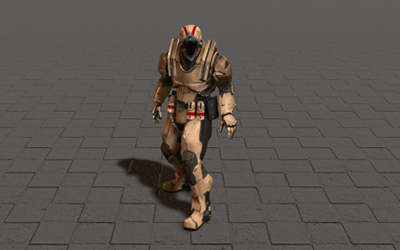
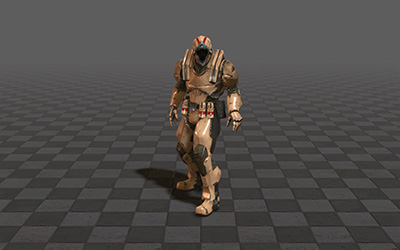
up

diff --git a/examples/webgl_animation_walk.html b/examples/webgl_animation_walk.html
@@ -65,10 +65,10 @@
 				up : new THREE.Vector3(0, 1, 0),
 				rotate: new THREE.Quaternion(),
 				current:'Idle',
-				fadeDuration:0.2,
+				fadeDuration:0.5,
 				runVelocity:5,
-				walkVelocity:2,
-				rotateSpeed:0.1,
+				walkVelocity:1.8,
+				rotateSpeed:0.05,
 				floorDecale:0,
 
 			};
@@ -90,7 +90,7 @@
 
 				scene = new THREE.Scene();
 				scene.background = new THREE.Color( 0x5e5d5d );
-				scene.fog = new THREE.Fog( 0x5e5d5d, 2, 30 );
+				scene.fog = new THREE.Fog( 0x5e5d5d, 2, 20 );
 
 				group = new THREE.Group();
 				scene.add(group);
@@ -158,16 +158,20 @@
 				let size = 50;
 				let repeat = 25;
 
+				const maxAnisotropy = renderer.capabilities.getMaxAnisotropy();
+
 				const floorT = new THREE.TextureLoader().load( 'textures/floors/FloorsCheckerboard_S_Diffuse.jpg' );
 				floorT.colorSpace = THREE.SRGBColorSpace;
 				floorT.repeat.set( repeat, repeat );
 				floorT.wrapS = floorT.wrapT = THREE.RepeatWrapping;
+				floorT.anisotropy = maxAnisotropy;
 
 				const floorN = new THREE.TextureLoader().load( 'textures/floors/FloorsCheckerboard_S_Normal.jpg' );
 				floorN.repeat.set( repeat, repeat );
 				floorN.wrapS = floorN.wrapT = THREE.RepeatWrapping;
+				floorN.anisotropy = maxAnisotropy;
 
-				let mat = new THREE.MeshStandardMaterial( { map:floorT, normalMap:floorN, normalScale:new THREE.Vector2(-2,-2), color: 0x404040, depthWrite: false, roughness:1.0 } )
+				let mat = new THREE.MeshStandardMaterial( { map:floorT, normalMap:floorN, normalScale:new THREE.Vector2(-1,-1), color: 0x404040, depthWrite: false, roughness:0.85 } )
 
 				let g = new THREE.PlaneGeometry( size, size, 50, 50 );
 				g.rotateX( -PI90 );
@@ -176,7 +180,17 @@
 				floor.receiveShadow = true;
 				scene.add( floor );
 
-				controls.floorDecale = (size / repeat);
+				controls.floorDecale = (size / repeat) * 4;
+
+
+				const bulbGeometry = new THREE.SphereGeometry( 0.05, 16, 8 );
+				let bulbLight = new THREE.PointLight( 0xffee88, 1, 100, 2 );
+
+				let bulbMat = new THREE.MeshStandardMaterial( { emissive: 0xffffee, emissiveIntensity: 1, color: 0x000000 } );
+				bulbLight.add( new THREE.Mesh( bulbGeometry, bulbMat ) );
+				bulbLight.position.set( 1, 1, -3 );
+				bulbLight.castShadow = true;
+				floor.add( bulbLight );
 
 			}
 
@@ -197,14 +211,12 @@
 						    if( object.name == 'vanguard_Mesh' ){
 						    	object.castShadow = true;
 								object.receiveShadow = true;
-								//object.material = new THREE.MeshStandardMaterial()
 								object.material.shadowSide = THREE.DoubleSide;
-								object.material.envMapIntensity = 0.5;
+								//object.material.envMapIntensity = 0.5;
 								object.material.metalness = 1.0;
 								object.material.roughness = 0.2;
 								object.material.color.set(1,1,1);
 								object.material.metalnessMap = object.material.map;
-								//object.material.envMap = scene.environment
 						    } else {
 						    	object.material.metalness = 1;
 								object.material.roughness = 0;
@@ -238,6 +250,12 @@
 						Run:mixer.clipAction( animations[ 1 ] )
 					};
 
+					for( let m in actions ){
+						actions[m].enabled = true;
+						actions[m].setEffectiveTimeScale( 1 );
+						if(m!=='Idle') actions[m].setEffectiveWeight( 0 );
+					}
+
 					actions.Idle.play();
 
 					animate();
@@ -248,6 +266,7 @@
 
 			function updateCharacter( delta ) {
 
+				const fade = controls.fadeDuration
 				const key = controls.key;
 				const up = controls.up;
 				const ease = controls.ease;
@@ -262,18 +281,28 @@
 
 		        if ( controls.current != play ){
 
-		        	const toPlay = actions[play];
-		            const current = actions[controls.current];
+		           
+
+		        	const current = actions[play];
+		            const old = actions[controls.current];
 		            controls.current = play;
 
-		            if(settings.fixe_transition){
-		            	setWeight( toPlay, 1.0 );
-			            current.fadeOut(controls.fadeDuration);
-			            toPlay.reset().fadeIn( controls.fadeDuration ).play();
-		            }else{
-		            	setWeight( toPlay, 1.0 );
-			            current.fadeOut(controls.fadeDuration);
-			            toPlay.reset().fadeIn( controls.fadeDuration ).play();
+		            
+
+		            if( settings.fixe_transition ){
+		            	current.reset()
+		            	current.weight = 1.0;
+		            	current.stopFading()
+		            	old.stopFading();
+		            	// sycro if not idle
+                        if ( play !== 'Idle' ) current.time = old.time * ( current.getClip().duration / old.getClip().duration );
+		            	old._scheduleFading( fade, old.getEffectiveWeight(), 0 );
+                        current._scheduleFading( fade, current.getEffectiveWeight(), 1 );	
+			            current.play();
+		            } else {
+		            	setWeight( current, 1.0 );
+			            old.fadeOut(fade);
+			            current.reset().fadeIn( fade ).play();
 		            }
 
 		        }
@@ -355,18 +384,11 @@
 
 				const key = controls.key;
 				switch ( event.code ) {
-					/*case 'ArrowUp': case 'KeyW': case 'KeyZ': key[0] = 0; break;
-					case 'ArrowDown': case 'KeyS': key[0] = 0; break;
-					case 'ArrowLeft': case 'KeyA': case 'KeyQ': key[1] = 0; break;
-					case 'ArrowRight': case 'KeyD': key[1] = 0; break;
-					case 'ShiftLeft' : key[2] = 0; break;*/
-
 					case 'ArrowUp': case 'KeyW': case 'KeyZ': key[0] = key[0]<0 ? 0:key[0]; break;
 					case 'ArrowDown': case 'KeyS': key[0] = key[0]>0 ? 0:key[0]; break;
 					case 'ArrowLeft': case 'KeyA': case 'KeyQ': key[1] = key[1]<0 ? 0:key[1]; break;
 					case 'ArrowRight': case 'KeyD': key[1] = key[1]>0 ? 0:key[1]; break;
 					case 'ShiftLeft' : case 'ShiftRight' : key[2] = 0; break;
-
 				}
 
 			}
